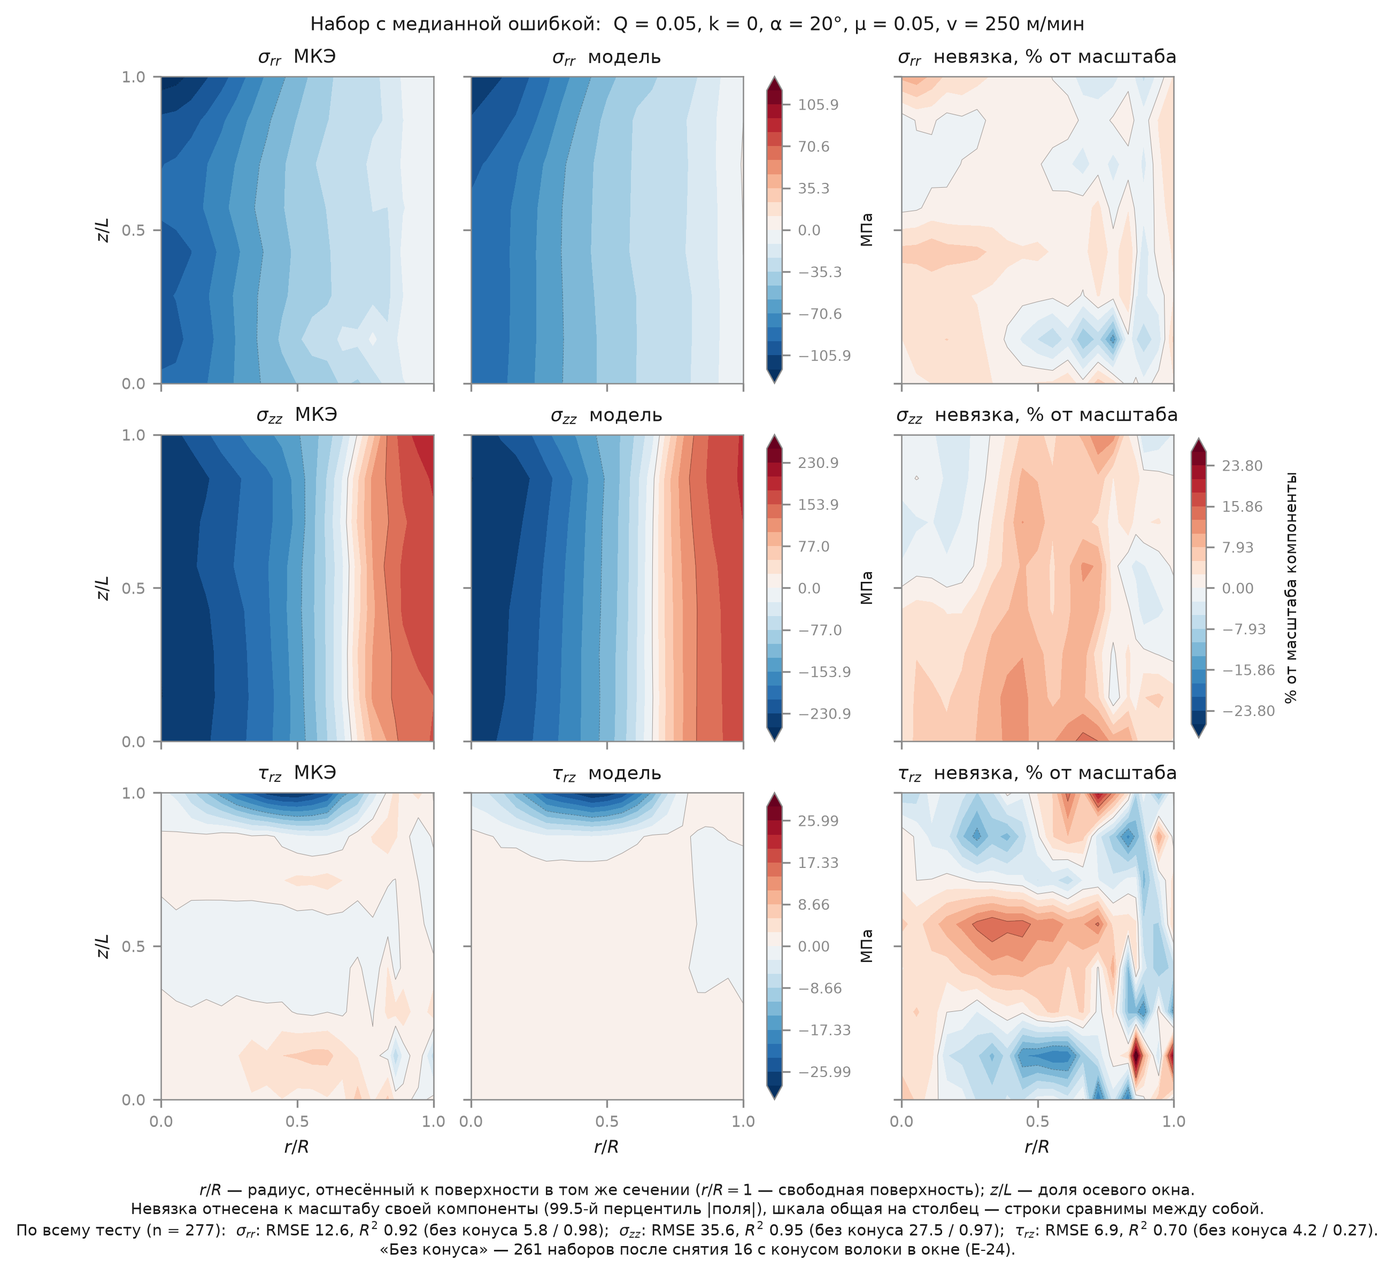
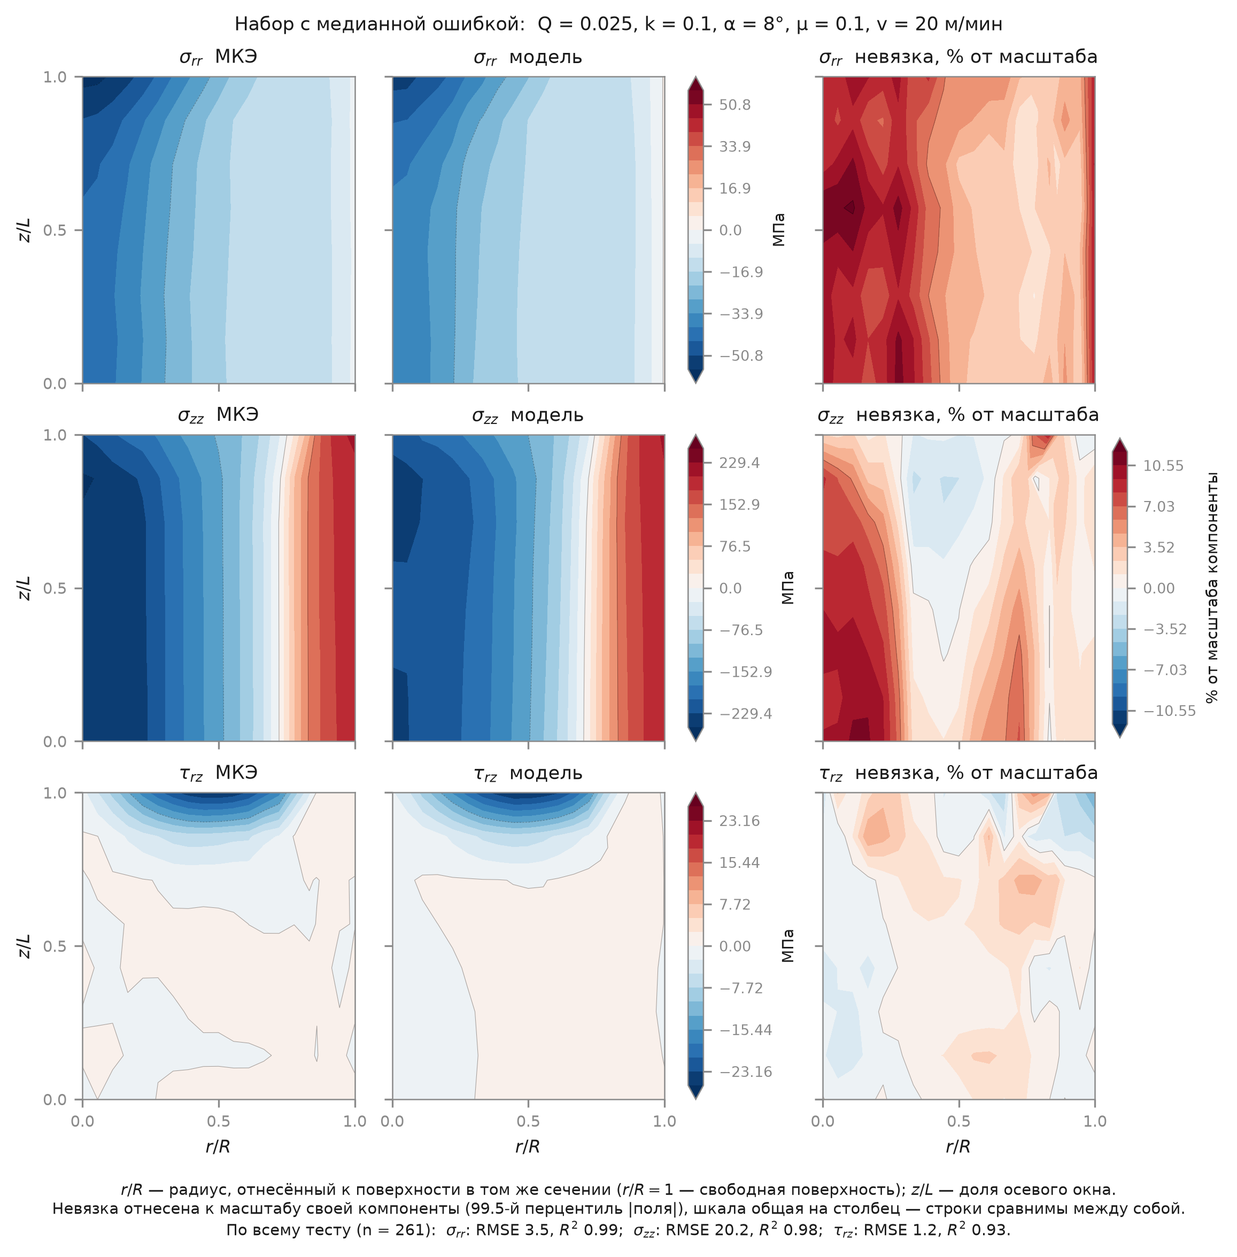
Переобучение без незавершённых расчётов: tau_rz R2 0.27 -> 0.935
Сняты 73 незавершённых расчёта ИЗ ОБУЧАЮЩЕЙ выборки (1571 -> 1498), тест
оставлен тем же (261 чистый набор) — сравнение изолирует ровно один фактор.

компонента   RMSE база  RMSE без 73  выигрыш   R2 база  R2 без 73
sigma_rr          5.79         3.53    -39 %     0.983      0.994
sigma_tt         11.83         5.97    -50 %     0.974      0.993
sigma_zz         27.47        20.15    -27 %     0.967      0.982
tau_rz            4.17         1.25    -70 %     0.269      0.935
macro            15.38        10.67    -31 %

tau_rz по скоростям восстановился всюду, включая провальные:
   v=5    R2 -15.589 -> 0.977, sd модели 15.66 -> 3.67 (МКЭ 3.76)
   v=10   R2   0.185 -> 0.966
   v=20   R2   0.865 -> 0.945
   v=40   R2   0.899 -> 0.963
   v=250  R2   0.861 -> 0.892

Раздувание амплитуды на v=5 (было x4.17) исчезло. Граничное условие:
|sigma_rr(r=1)| 1.61 -> 0.56 МПа, |tau_rz(r=1)| 0.46 -> 0.05 МПа, при том что
сам МКЭ даёт 3.54 и 0.59 — модель строже источника в 6.3 и 12 раз.

Все три прежние цифры по tau_rz отозваны: 0.70 завышена загрязнением теста,
0.27 занижена смешением режимов, разбивка по скорости описывала следствие.
Корректная — 0.935. Слабое качество по tau_rz не было свойством метода: его
создавали 4.6 % загрязнённых данных в обучении.

Карты разделены на две по просьбе: --mode fields (МКЭ против модели, четыре
компоненты, 2x4) и --mode errors (только невязки, 1x4, общая шкала в % от
масштаба компоненты). Прежний совмещённый --mode model сохранён.

diff --git a/publication/experiments/contours.py b/publication/experiments/contours.py
@@ -120,6 +120,179 @@ def fig_raw(path_rpt: str, out: str, job: str = ""):
     return out
 
 
+def _where(spec: str) -> Optional[Dict[str, float]]:
+    """'Q=0.10,v=20' → {'Q': 0.1, 'v': 20.0}."""
+    out = {}
+    for part in filter(None, spec.split(",")):
+        k, v = part.split("=")
+        out[k.strip()] = float(v)
+    return out or None
+
+
+def _pick_set(d, err, which, where):
+    """Общий выбор набора для карт модели: медиана внутри отобранного режима."""
+    if which >= 0:
+        return which
+    pool = np.ones(len(err), dtype=bool)
+    if where:
+        for key, val in where.items():
+            pool &= np.isclose(d["proc"][:, PROC_COL[key]], val)
+        if not pool.any():
+            raise SystemExit(f"нет тестовых наборов с {where}")
+    idx = np.flatnonzero(pool)
+    w = int(idx[np.argsort(err[idx])[len(idx) // 2]])
+    tag = (" при " + ", ".join(f"{k} = {v:g}" for k, v in where.items())) if where else ""
+    print(f"выбран набор {w}{tag}: медианная ошибка {err[w]:.2f} МПа "
+          f"(из {len(idx)} наборов, диапазон {err[idx].min():.2f}–{err[idx].max():.2f})")
+    return w
+
+
+def _regime(proc):
+    return (f"Q = {proc[0]:g}, k = {proc[1]:g}, α = {proc[2]:g}°, "
+            f"μ = {proc[3]:g}, v = {proc[4]:g} м/мин")
+
+
+ROWS4 = [(r"$\sigma_{rr}$", 0), (r"$\sigma_{\theta\theta}$", 1),
+         (r"$\sigma_{zz}$", 2), (r"$\tau_{rz}$", 3)]
+
+
+def fig_fields(npz: str, out: str, which: int = -1,
+               where: Optional[Dict[str, float]] = None):
+    """
+    Только поля: МКЭ (верхний ряд) против модели (нижний), четыре компоненты.
+
+    Невязки сюда НЕ включены намеренно — у них своя шкала и свой вопрос;
+    смешивание в одной сетке заставляло читать разными глазами соседние
+    панели. Ошибки — в fig_errors.
+    """
+    d = np.load(npz, allow_pickle=True)
+    yt_all, yp_all = d["y_true"], d["y_pred"]
+    err = np.sqrt(((yp_all - yt_all) ** 2).mean(axis=(1, 2, 3)))
+    which = _pick_set(d, err, which, where)
+    yt, yp = yt_all[which], yp_all[which]
+    R = d["r"][which]
+    Z = np.repeat(d["z"][which][:, None], yt.shape[1], axis=1)
+
+    fig, axes = plt.subplots(2, 4, figsize=(9.6, 5.4), sharex=True, sharey=True,
+                             layout="constrained")
+    for j, (tex, c) in enumerate(ROWS4):
+        lim = _sym(np.concatenate([yt[:, :, c].ravel(), yp[:, :, c].ravel()]))
+        lev = np.linspace(-lim, lim, 21)
+        for i, (v, who) in enumerate(((yt[:, :, c], "МКЭ"), (yp[:, :, c], "модель"))):
+            ax = axes[i, j]
+            cf = ax.contourf(R, Z, v, levels=lev, cmap=DIVERGING, extend="both")
+            ax.contour(R, Z, v, levels=lev[::5], colors="k",
+                       linewidths=0.25, alpha=0.35)
+            ax.set_title(f"{tex}  {who}" if i == 0 else who)
+            ax.set_xlim(0, 1); ax.set_ylim(0, 1)
+            ax.set_xticks([0, 0.5, 1.0]); ax.set_yticks([0, 0.5, 1.0])
+            if j == 0:
+                ax.set_ylabel(r"$z/L$")
+        cb = fig.colorbar(cf, ax=axes[:, j], fraction=0.07, pad=0.02,
+                          location="bottom", orientation="horizontal",
+                          ticks=np.linspace(-lim, lim, 5))
+        cb.set_label("МПа", fontsize=7)
+        cb.ax.tick_params(labelsize=6, color=MUTED)
+        axes[1, j].set_xlabel(r"$r/R$")
+    fig.suptitle(f"Поля: МКЭ против модели.  Набор с медианной ошибкой:  "
+                 f"{_regime(d['proc'][which])}", fontsize=8.5)
+    fig.text(0.5, -0.02,
+             r"Шкала общая для МКЭ и модели внутри каждой компоненты. "
+             r"$r/R = 1$ — свободная поверхность; $z/L$ — доля осевого окна."
+             "\nОси не в одном масштабе: радиальная растянута.",
+             ha="center", va="top", fontsize=7, color=INK)
+    fig.savefig(out)
+    plt.close(fig)
+    return out
+
+
+def fig_errors(npz: str, out: str, which: int = -1,
+               where: Optional[Dict[str, float]] = None,
+               diff_mode: str = "rel"):
+    """
+    Только невязки (модель − МКЭ) по четырём компонентам.
+
+    diff_mode='rel' — в % от масштаба своей компоненты, шкала ОБЩАЯ на все
+    четыре панели, поэтому компоненты сравнимы между собой напрямую.
+    diff_mode='abs' — в МПа, своя шкала у каждой панели.
+    """
+    if diff_mode not in ("rel", "abs"):
+        raise ValueError(f"diff_mode: 'rel' или 'abs', получено {diff_mode!r}")
+    d = np.load(npz, allow_pickle=True)
+    yt_all, yp_all = d["y_true"], d["y_pred"]
+    err = np.sqrt(((yp_all - yt_all) ** 2).mean(axis=(1, 2, 3)))
+    which = _pick_set(d, err, which, where)
+    yt, yp = yt_all[which], yp_all[which]
+    R = d["r"][which]
+    Z = np.repeat(d["z"][which][:, None], yt.shape[1], axis=1)
+    clean = d["clean_mask"] if "clean_mask" in d.files else None
+
+    scales = [_sym(np.concatenate([yt[:, :, c].ravel(), yp[:, :, c].ravel()]))
+              for _, c in ROWS4]
+    rel_lim = max(100.0 * _sym((yp[:, :, c] - yt[:, :, c]).ravel()) / sc
+                  for (_, c), sc in zip(ROWS4, scales))
+
+    fig, axes = plt.subplots(1, 4, figsize=(9.6, 3.4), sharey=True,
+                             layout="constrained")
+    for j, (tex, c) in enumerate(ROWS4):
+        diff = yp[:, :, c] - yt[:, :, c]
+        rmse = float(np.sqrt((diff ** 2).mean()))
+        if diff_mode == "rel":
+            v, L = 100.0 * diff / scales[j], rel_lim
+        else:
+            v, L = diff, _sym(diff.ravel())
+        ax = axes[j]
+        lev = np.linspace(-L, L, 21)
+        cf = ax.contourf(R, Z, v, levels=lev, cmap=DIVERGING, extend="both")
+        ax.contour(R, Z, v, levels=lev[::5], colors="k",
+                   linewidths=0.25, alpha=0.35)
+        ax.set_title(f"{tex}\nRMSE {rmse:.1f} МПа = "
+                     f"{100 * rmse / scales[j]:.1f} % масштаба", fontsize=8)
+        ax.set_xlim(0, 1); ax.set_ylim(0, 1)
+        ax.set_xticks([0, 0.5, 1.0]); ax.set_yticks([0, 0.5, 1.0])
+        ax.set_xlabel(r"$r/R$")
+        if j == 0:
+            ax.set_ylabel(r"$z/L$")
+        if diff_mode == "abs":
+            cb = fig.colorbar(cf, ax=ax, fraction=0.07, pad=0.02,
+                              location="bottom", orientation="horizontal")
+            cb.set_label("МПа", fontsize=7)
+            cb.ax.tick_params(labelsize=6, color=MUTED)
+    if diff_mode == "rel":
+        cb = fig.colorbar(cf, ax=axes, fraction=0.05, pad=0.02,
+                          location="bottom", orientation="horizontal",
+                          ticks=np.linspace(-rel_lim, rel_lim, 7))
+        cb.set_label("невязка, % от масштаба своей компоненты", fontsize=7)
+        cb.ax.tick_params(labelsize=6.5, color=MUTED)
+        cb.ax.set_xticklabels([f"{t:.0f}" for t in
+                               np.linspace(-rel_lim, rel_lim, 7)])
+
+    summ = []
+    for tex, c in ROWS4:
+        t, q = yt_all[..., c].ravel(), yp_all[..., c].ravel()
+        r2 = 1.0 - ((q - t) ** 2).sum() / ((t - t.mean()) ** 2).sum()
+        part = f"{tex}: {np.sqrt(((q - t) ** 2).mean()):.1f} МПа, $R^2$ {r2:.2f}"
+        if clean is not None and not clean.all():
+            tc = yt_all[clean][..., c].ravel(); qc = yp_all[clean][..., c].ravel()
+            r2c = 1.0 - ((qc - tc) ** 2).sum() / ((tc - tc.mean()) ** 2).sum()
+            part += f" (чистые {np.sqrt(((qc - tc) ** 2).mean()):.1f} / {r2c:.2f})"
+        summ.append(part)
+    fig.suptitle(f"Невязка модель − МКЭ.  Набор с медианной ошибкой:  "
+                 f"{_regime(d['proc'][which])}", fontsize=8.5)
+    note = ("Заголовок панели — RMSE ЭТОГО набора. "
+            + ("Шкала общая на все четыре панели: компоненты сравнимы напрямую."
+               if diff_mode == "rel" else
+               "Шкала своя у каждой панели: сравнивать между собой нельзя.")
+            + f"\nПо всему тесту (n = {len(yt_all)}): " + ";  ".join(summ) + ".")
+    if clean is not None and not clean.all():
+        note += (f"\n«Чистые» — {int(clean.sum())} наборов после снятия "
+                 f"{int((~clean).sum())} незавершённых расчётов (E-24).")
+    fig.text(0.5, -0.02, note, ha="center", va="top", fontsize=7, color=INK)
+    fig.savefig(out)
+    plt.close(fig)
+    return out
+
+
 def fig_model(npz: str, out: str, which: int = -1,
               where: Optional[Dict[str, float]] = None,
               diff_mode: str = "rel"):
@@ -323,7 +496,9 @@ def fig_alpha_series(root: str, out: str, comp: int = 12, tex: str = r"$\sigma_{
 
 def main():
     ap = argparse.ArgumentParser()
-    ap.add_argument("--mode", choices=["raw", "model", "alpha"], required=True)
+    ap.add_argument("--mode",
+                    choices=["raw", "model", "fields", "errors", "alpha"],
+                    required=True)
     ap.add_argument("--root", default="")
     ap.add_argument("--rpt", default="")
     ap.add_argument("--npz", default="")
@@ -341,12 +516,14 @@ def main():
         job = os.path.basename(a.rpt)[:-4]
         print("создан", fig_raw(a.rpt, a.out, job))
     elif a.mode == "model":
-        where = {}
-        for part in filter(None, a.where.split(",")):
-            k, v = part.split("=")
-            where[k.strip()] = float(v)
+        where = _where(a.where)
         print("создан", fig_model(a.npz, a.out, a.which, where or None,
                                   a.diff_mode))
+    elif a.mode == "fields":
+        print("создан", fig_fields(a.npz, a.out, a.which, _where(a.where)))
+    elif a.mode == "errors":
+        print("создан", fig_errors(a.npz, a.out, a.which, _where(a.where),
+                                   a.diff_mode))
     else:
         print("создан", fig_alpha_series(a.root, a.out))
 

diff --git a/publication/QA_DATA_AND_Z.md b/publication/QA_DATA_AND_Z.md
@@ -231,41 +231,46 @@ y = np.stack([s_rr(11), s_tt(13), s_zz(12), s_rz(14)])
 R² = 0.967–0.983 — то есть основная часть видимой ошибки приходилась не на
 модель, а на 16 наборов, где «поверхность» лежит на контакте с волокой.
 
-**Поправка к цифре по τ_rz, и вторая поправка к ней же.** Сначала я приводил
-R² = 0.70; оно завышено загрязнёнными наборами (контактный сдвиг раздувает
-знаменатель дисперсии). Затем — R² = 0.27 по чистым наборам. Но и это число
-вводит в заблуждение: оно усредняет режимы, которые ведут себя совершенно
-по-разному. Разбивка по скорости волочения, только чистые наборы:
+**Итоговая цифра по τ_rz — после переобучения.** Я приводил по этой величине
+последовательно R² = 0.70, потом 0.27, потом разбивку по скоростям. Все три
+были следствием того, что модель обучалась на загрязнённых данных. Проведено
+переобучение со снятием 73 незавершённых расчётов **из обучающей выборки**,
+тест оставлен тем же — 261 чистый набор, так что сравнение изолирует ровно
+один фактор:
 
-| v, м/мин | n | σ_rr R² | σ_θθ R² | σ_zz R² | **τ_rz R²** | sd(τ_rz) МКЭ | sd(τ_rz) модель | отношение |
-|---|---|---|---|---|---|---|---|---|
-| 5 | 13 | 0.910 | 0.793 | 0.815 | **−15.6** | 3.76 | 15.66 | **×4.17** |
-| 10 | 46 | 0.975 | 0.973 | 0.982 | **0.185** | 4.78 | 5.63 | ×1.18 |
-| 20 | 67 | 0.984 | 0.984 | 0.988 | **0.865** | 4.52 | 4.46 | ×0.99 |
-| 40 | 61 | 0.987 | 0.988 | 0.986 | **0.899** | 4.71 | 4.76 | ×1.01 |
-| 250 | 74 | 0.994 | 0.990 | 0.959 | **0.861** | 5.47 | 5.14 | ×0.94 |
+| компонента | RMSE база | RMSE без 73 | выигрыш | R² база | R² без 73 |
+|---|---|---|---|---|---|
+| σ_rr | 5.79 | 3.53 | −39 % | 0.983 | **0.994** |
+| σ_θθ | 11.83 | 5.97 | −50 % | 0.974 | **0.993** |
+| σ_zz | 27.47 | 20.15 | −27 % | 0.967 | **0.982** |
+| **τ_rz** | 4.17 | **1.25** | **−70 %** | 0.269 | **0.935** |
+| macro | 15.38 | 10.67 | −31 % | | |
 
-При v ≥ 20 сдвиг предсказывается **хорошо**: R² = 0.86–0.90 при отношении
-разбросов 0.94–1.01, то есть модель воспроизводит и структуру, и амплитуду.
-Проваливается он только на v = 5 и v = 10, и там же модель **раздувает**
-амплитуду — в 4.17 раза на v = 5.
+По скоростям τ_rz восстановился всюду, включая провальные режимы:
 
-Причина найдена: **76 из 89 наборов с конусом волоки в окне (E-24) лежат
-именно на v = 10**, а v = 5 — самая малочисленная группа во всём датасете
-(94 набора, 5.1 %). Загрязнённые наборы попадают не только в тест, но и в
-обучение, и учат модель ждать большой сдвиг на малых скоростях; это переносится
-на соседние чистые наборы. Подтверждение: `sd(τ_rz)` при v = 10 равен 26.33 МПа
-со всеми наборами и 4.84 МПа без наборов с конусом — то есть в один ряд со
-всеми остальными скоростями (3.66–5.09 МПа).
+| v, м/мин | n | R² база | R² без 73 | sd(МКЭ) | sd(база) | sd(без 73) |
+|---|---|---|---|---|---|---|
+| 5 | 13 | **−15.589** | **0.977** | 3.76 | 15.66 | **3.67** |
+| 10 | 46 | 0.185 | 0.966 | 4.78 | 5.63 | 4.64 |
+| 20 | 67 | 0.865 | 0.945 | 4.52 | 4.46 | 4.29 |
+| 40 | 61 | 0.899 | 0.963 | 4.71 | 4.76 | 4.59 |
+| 250 | 74 | 0.861 | 0.892 | 5.47 | 5.14 | 4.95 |
 
-**Что отсюда следует практически.** 89 наборов с конусом надо снимать **до
-обучения**, а не только при оценке; по v = 5 либо досчитать наборы, либо
-исключить эту скорость и оговорить диапазон применимости. После этого τ_rz
-перестаёт быть слабым местом модели.
+Раздувание амплитуды на v = 5 (было ×4.17) исчезло: sd модели 3.67 против
+3.76 у МКЭ. Улучшилось и соблюдение граничного условия:
 
-Прежние формулировки R² = 0.70 и R² = 0.27 как характеристики качества по
-τ_rz отозваны: первая завышена загрязнением, вторая занижена смешением
-несопоставимых режимов.
+| | \|σ_rr(r = 1)\| | \|τ_rz(r = 1)\| |
+|---|---|---|
+| МКЭ (сам источник) | 3.54 МПа | 0.59 МПа |
+| модель, база | 1.61 МПа | 0.46 МПа |
+| модель без 73 | **0.56 МПа** | **0.05 МПа** |
+
+Модель соблюдает traction-free в 6.3 раза строже источника по σ_rr и в 12 раз
+по τ_rz.
+
+**Вывод, который надо запомнить:** слабое качество по τ_rz не было свойством
+метода. Его целиком создавали 73 незавершённых расчёта в обучающей выборке —
+4.6 % данных. Корректная цифра — **R² = 0.935**.
 
 ### Как читать панель разности
 
